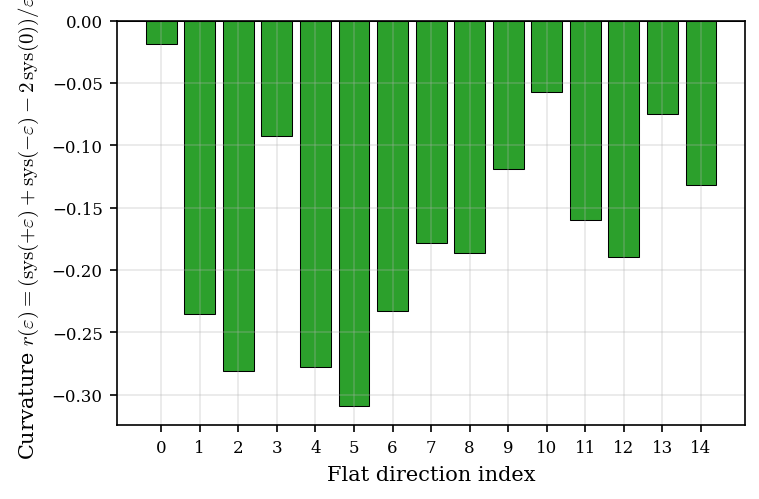
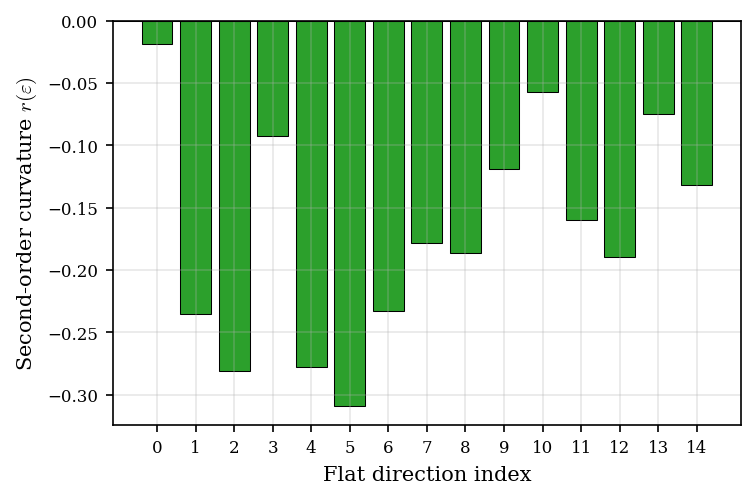
Fix clipped y-label on curvatures bar chart

diff --git a/crates/exp-hko-local-maximum/second-order/analyze.py b/crates/exp-hko-local-maximum/second-order/analyze.py
@@ -220,7 +220,7 @@ def plot_curvatures(dir_curvatures):
     ax.bar(indices, curvs, color=colors, edgecolor='k', linewidth=0.5)
     ax.axhline(0, color='k', linewidth=0.5)
     ax.set_xlabel("Flat direction index")
-    ax.set_ylabel(r"Curvature $r(\varepsilon) = (\mathrm{sys}(+\varepsilon) + \mathrm{sys}(-\varepsilon) - 2\,\mathrm{sys}(0))/\varepsilon^2$")
+    ax.set_ylabel(r"Second-order curvature $r(\varepsilon)$")
     ax.set_xticks(indices)
 
     fig.savefig(EXPERIMENT_DIR / "second_order_curvatures.png")
